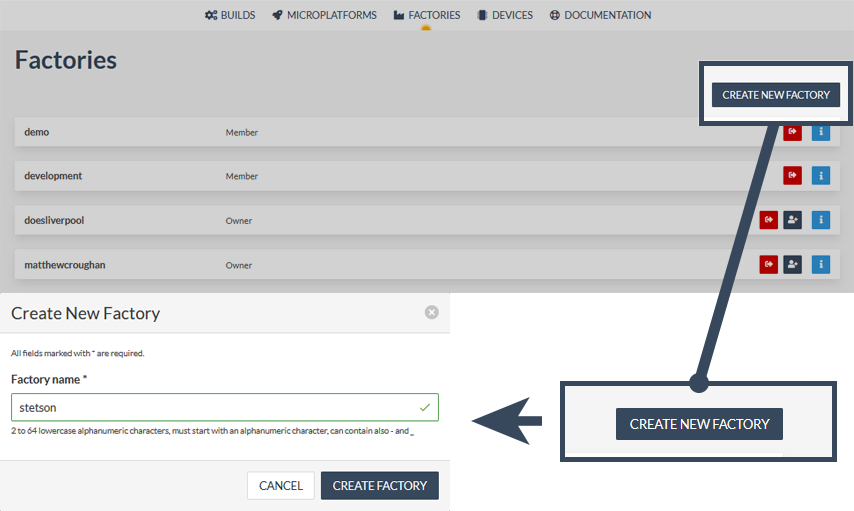
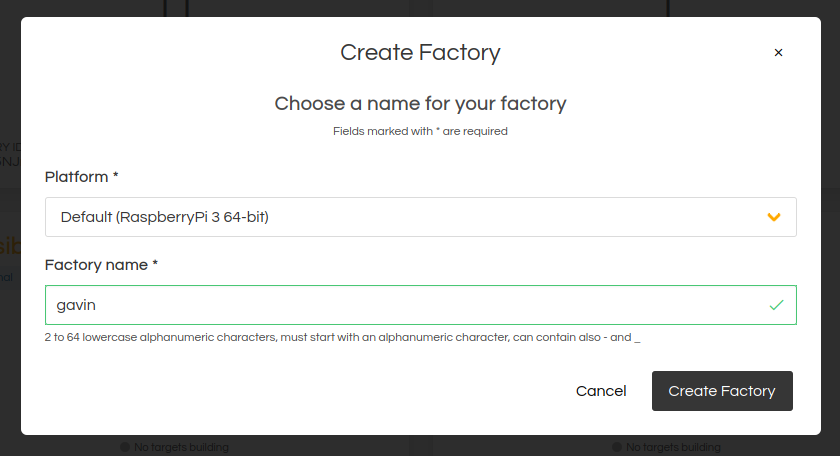
getting-started: app.foundries.io new ui changes

diff --git a/source/getting-started/signup/index.rst b/source/getting-started/signup/index.rst
@@ -27,7 +27,7 @@ When your account is created, it is not associated with any factories.
 Create one by clicking **Create Factory**
 
 .. figure:: /_static/signup/no-factories.png
-   :width: 600
+   :width: 400
    :align: center
 
    Your journey begins empty handed
@@ -52,15 +52,21 @@ Create one by clicking **Create Factory**
 Select Your Platform
 ####################
 
+Choose a hardware platform from the dropdown menu in the  **Create New Factory** wizard
+and continue.
+
 The :ref:`ref-linux` supports a wide range of platforms out of the box. This
 includes QEMU_ images for ARM_ and RISC-V_ architectures.
 
-.. note::
+.. figure:: /_static/signup/create.png
+   :width: 400
+   :align: center
 
-   To change the platform your Factory produces builds for, you must change the
-   value of the ``machines:`` key in your ``factory-config.yml`` to one of our
-   supported boards from the :ref:`ref-linux-targets` section. Read the
-   :ref:`ref-Factory-definition` page for more details.
+.. tip::
+
+   Your chosen platform determines what the initial value for the ``machines:``
+   key will be for your first build. This key and its value can later be changed
+   via ``factory-config.yml`` in :ref:`ref-Factory-definition`
 
 .. _QEMU: https://www.qemu.org/
 .. _ARM: https://www.arm.com/
@@ -73,13 +79,7 @@ Watch Your Build
 
 Once you have created your Factory, an initial build of the LmP will be
 generated for you to build your product on top of. You can monitor the progress
-of this initial build by clicking the **MICROPLATFORM** button in your Factory
-UI. The **SOURCE CODE** button will take you to your Factory source code in the
-cgit_ web frontend.
-
-.. figure:: /_static/signup/build.png
-   :width: 900
-   :align: center
+of this initial build in the **Targets** tab of your Factory.
 
 This section will become more useful as you begin to build your application and
 declare new targets for the Factory to build. You can learn about creating targets in the
@@ -91,6 +91,10 @@ declare new targets for the Factory to build. You can learn about creating targe
    <https://foundries.io/insights/blog/2020/05/14/whats-a-target/>`_ about what targets
    are and why we made them the way they are.
 
+.. figure:: /_static/signup/build.png
+   :width: 900
+   :align: center
+
 .. warning::
 
    Bootstrapping your OS securely takes some time. Secure caching isn't simple,
@@ -100,4 +104,4 @@ declare new targets for the Factory to build. You can learn about creating targe
    Read through the rest of this section and set up your development
    environment while you wait for us to build your OS from scratch.
 
-.. _cgit: https://git.zx2c4.com/cgit/
+.. _

diff --git a/source/getting-started/create-compose-app/index.rst b/source/getting-started/create-compose-app/index.rst
@@ -58,7 +58,7 @@ Example Apps
       
            NAME  FACTORY  OWNER           TARGET                  STATUS  APPS  UP TO DATE
            ----  -------  -----           ------                  ------  ----  ----------
-           gavin stetson  <unconfigured>  raspberrypi3-64-lmp-19  OK            true
+           foo   gavin    <unconfigured>  raspberrypi3-64-lmp-19  OK            true
       
       #. Configure the device to run the ``shellhttpd`` app. Make sure to
          replace ``<device>`` with the ``NAME`` of yours::
@@ -128,7 +128,7 @@ Example Apps
       
            NAME  FACTORY  OWNER           TARGET                  STATUS  APPS  UP TO DATE
            ----  -------  -----           ------                  ------  ----  ----------
-           gavin stetson  <unconfigured>  raspberrypi3-64-lmp-19  OK            true
+           foo   gavin    <unconfigured>  raspberrypi3-64-lmp-19  OK            true
       
       #. Configure the device to run the ``mosquitto`` app. Make sure to replace
          ``<device>`` with the ``NAME`` of yours::
@@ -158,11 +158,11 @@ details about target can be printed by passing its version number to the
 **CLI Output**::
 
   Tags:   master
-  CI:     https://ci.foundries.io/projects/stetson/lmp/builds/4/
+  CI:     https://ci.foundries.io/projects/gavin/lmp/builds/4/
   Source:
-          https://source.foundries.io/factories/stetson/lmp-manifest.git/commit/?id=2aaebc4b16c1027c9aae167d6178a8f248027a73
-          https://source.foundries.io/factories/stetson/meta-subscriber-overrides.git/commit/?id=19cbbe7b890eafed4d88e1fb13d2d61ecef8f3e5
-          https://source.foundries.io/factories/stetson/containers.git/commit/?id=6a2ef8d1dbab0db634c52950ae4a7c18494021b2
+          https://source.foundries.io/factories/gavin/lmp-manifest.git/commit/?id=2aaebc4b16c1027c9aae167d6178a8f248027a73
+          https://source.foundries.io/factories/gavin/meta-subscriber-overrides.git/commit/?id=19cbbe7b890eafed4d88e1fb13d2d61ecef8f3e5
+          https://source.foundries.io/factories/gavin/containers.git/commit/?id=6a2ef8d1dbab0db634c52950ae4a7c18494021b2
 
   TARGET NAME            OSTREE HASH - SHA256
   -----------            --------------------

diff --git a/source/getting-started/git-config/index.rst b/source/getting-started/git-config/index.rst
@@ -11,7 +11,7 @@ you with our Git server.
 
 .. note:: Tokens can be generated at https://app.foundries.io/settings/tokens
 
-Replace ``YOUR_TOKEN`` in the following command with your **api token**. An
+Replace ``YOUR_TOKEN`` in the following command with your access token. An
 example token looks like this: ``ebAYLaManEgNdRnWKfnwNDJjU45c5LJPmWsYw78z``
 
 .. code-block:: console
@@ -32,9 +32,9 @@ Replace ``<factory>`` with your FoundriesFactory name.
 
    You can also use ``git config --list`` to show you the current state of the
    global Git configuration, in which ``source.foundries.io`` should be referenced
-   along with your **api token**, represented as a base64 string.
+   along with your access token, represented as a base64 string.
 
 .. todo::
 
-   **git-config** add :ref: to 'FoundriesFactory', 'api token', 'account
+   **git-config** add :ref: to 'FoundriesFactory', 'access token', 'account
    creation', 'ci scripts' when pages are available

diff --git a/source/getting-started/flash-device/index.rst b/source/getting-started/flash-device/index.rst
@@ -24,10 +24,10 @@ When you trigger a build, it produces build artifacts as an output which can be
 downloaded from the **Targets** tab of your factory, as described in
 :ref:`ref-watch-build`.
 
-1. Navigate to the **MICROPLATFORM** section of your Factory.
+1. Navigate to the **Targets** section of your Factory.
 
-2. Find your ``master``  LmP platform build, denoted by the **trigger name**:
-   ``platform-master``.
+2. Find your LmP platform build, denoted by the **trigger name**:
+   ``platform-<tag>``.
 
    e.g: ``lmp-factory-image-machine-name.wic.gz``
 

diff --git a/source/getting-started/install-fioctl/index.rst b/source/getting-started/install-fioctl/index.rst
@@ -76,7 +76,7 @@ manually, you can refer to this section for manual installation instructions.
          An example path string if installing to a folder on the desktop would
          look like this.
 
-         ``C:\Users\Stetson\Desktop\fio\bin``
+         ``C:\Users\Gavin\Desktop\fio\bin``
 
       You should now be able to open ``cmd.exe`` or ``powershell.exe`` and type
       ``fioctl``.

diff --git a/source/getting-started/register-device/index.rst b/source/getting-started/register-device/index.rst
@@ -18,7 +18,7 @@ register your device(s) via the Foundries.io REST API.
 
    **Example Output**::
 
-     Registering device, test, to factory stetson.
+     Registering device, test, to factory gavin.
      Device UUID: df1295df-ba58-40a0-9239-542ded5ab934
 
      ----------------------------------------------------------------------------
